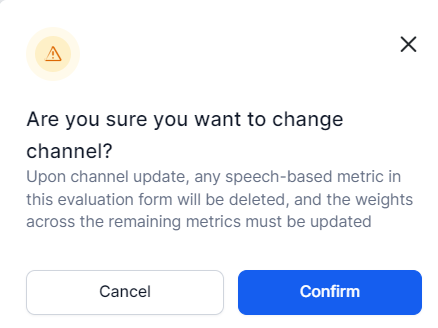
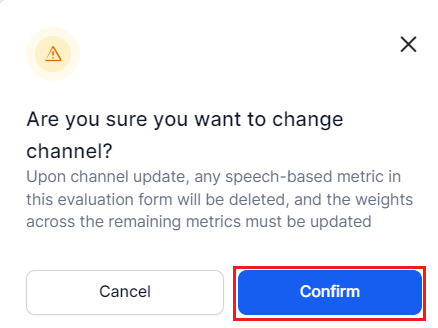
updated

Changed region(s): [[0.5342, 0.7927, 0.9795, 1.0]]

diff --git a/docs/xo/quality-management/configure/evaluation-forms/configure-evaluation-forms.md b/docs/xo/quality-management/configure/evaluation-forms/configure-evaluation-forms.md
@@ -34,7 +34,7 @@ The Evaluation Forms has the following options:
 
 ### Add New Evaluation Form
 
-You can access the Evaluation Metrics by navigating to **Contact Center AI** > **Quality AI** > **Configure** > **Evaluation Forms** > **New Evaluation Forms**.  
+You can access the Evaluation Metrics by navigating to **Contact Center AI** > **Quality Management** > **Configure** > **Evaluation Forms** > **New Evaluation Forms**.  
 
 Steps to create a new Evaluation Form:
 <img src="../images/add-new-evaluation-form.png" alt="Add New Evaluation Form" title="Add New Evaluation Form" style="border: 1px solid gray; zoom:80%;">
@@ -42,7 +42,9 @@ Steps to create a new Evaluation Form:
 1. Click the **+New Evaluation Form** button in the upper-right corner to configure the most commonly used evaluation form. The following screen appears, allowing you to add a new evaluation form.  
 <img src="../images/add-new-evaluation-forms-settings.png" alt="New Evaluation Form" title="New Evaluation Form" style="border: 1px solid gray; zoom:80%;">
 
-<strong>Note:</strong> It is mandatory for the agents to attain the minimum pass score set by the Supervisor. If the pass score is not met for a given interaction, it will be evaluated as Fail.
+  !!! Note     
+        
+      It is mandatory for the agents to attain the minimum pass score set by the Supervisor. If the pass score is not met for a given interaction, it will be evaluated as Fail.
 
 The following table describes the Evaluation Forms details:
 
@@ -110,11 +112,12 @@ For example, if there is more than one Evaluation Metric, the total percentage m
 
 2. Click **Create** to **Add New Evaluation Form** to the queue for review.
 3. In case, if you are changing the existing channel mode from Voice to Chat or vice-versa which is already added, then the following dialog box appears.  
-<img src="../images/channel-update.png" alt="Channel Update Confirmation" title="Channel Update Confirmation" style="border: 1px solid gray; zoom:70%;">
 
     !!! Note
 
-        Upon changing any of the existing Channel modes like Voice to Chat or vice versa, will delete the earlier existing speech-based metrics in the Evaluation Form, which has to be updated again across the remaining metrics along with weights.
+        Upon changing any of the existing Channel modes like Voice to Chat or vice versa, will delete the earlier existing speech-based metrics in the Evaluation Form, which has to be updated again across the remaining metrics along with weights.  
+
+      <img src="../images/channel-update.png" alt="Channel Update Confirmation" title="Channel Update Confirmation" style="border: 1px solid gray; zoom:70%;">
 
 4. Click **Confirm** to update the Channel.
 

diff --git a/docs/xo/quality-management/configure/evaluation-forms/configure-evaluation-metrics.md b/docs/xo/quality-management/configure/evaluation-forms/configure-evaluation-metrics.md
@@ -2,7 +2,7 @@
 
 This phase is entirely based on individual questions .  It allows you to create custom evaluation criteria across different measurement types. You can create Evaluation Metrics in the Evaluation Forms section utilizing these different measurement types.
 
-Users can access the Evaluation Metrics by navigating to **Contact Center AI** > **Quality AI** > **Configure** > **Evaluation Forms** > **Evaluation Metrics**.  
+Users can access the Evaluation Metrics by navigating to **Contact Center AI** > **Quality Management** > **Configure** > **Evaluation Forms** > **Evaluation Metrics**.  
 <img src="../images/eva-metrics.png" alt="Evaluation Metrics" title="Evaluation Metrics" style="border: 1px solid gray; zoom:70%;">
 
 The Evaluation Metrics has the following options:
@@ -17,7 +17,7 @@ The Evaluation Metrics has the following options:
 ## Add New Evaluation Metrics
 
 
-You can access the Evaluation Metrics by navigating to **Contact Center AI** > **Quality AI** > **Configure** > **Evaluation Metrics** > **New Evaluation Metrics**.  
+You can access the Evaluation Metrics by navigating to **Contact Center AI** > **Quality Management** > **Configure** > **Evaluation Metrics** > **New Evaluation Metrics**.  
 
 Steps to create New Evaluation Metrics:
 
